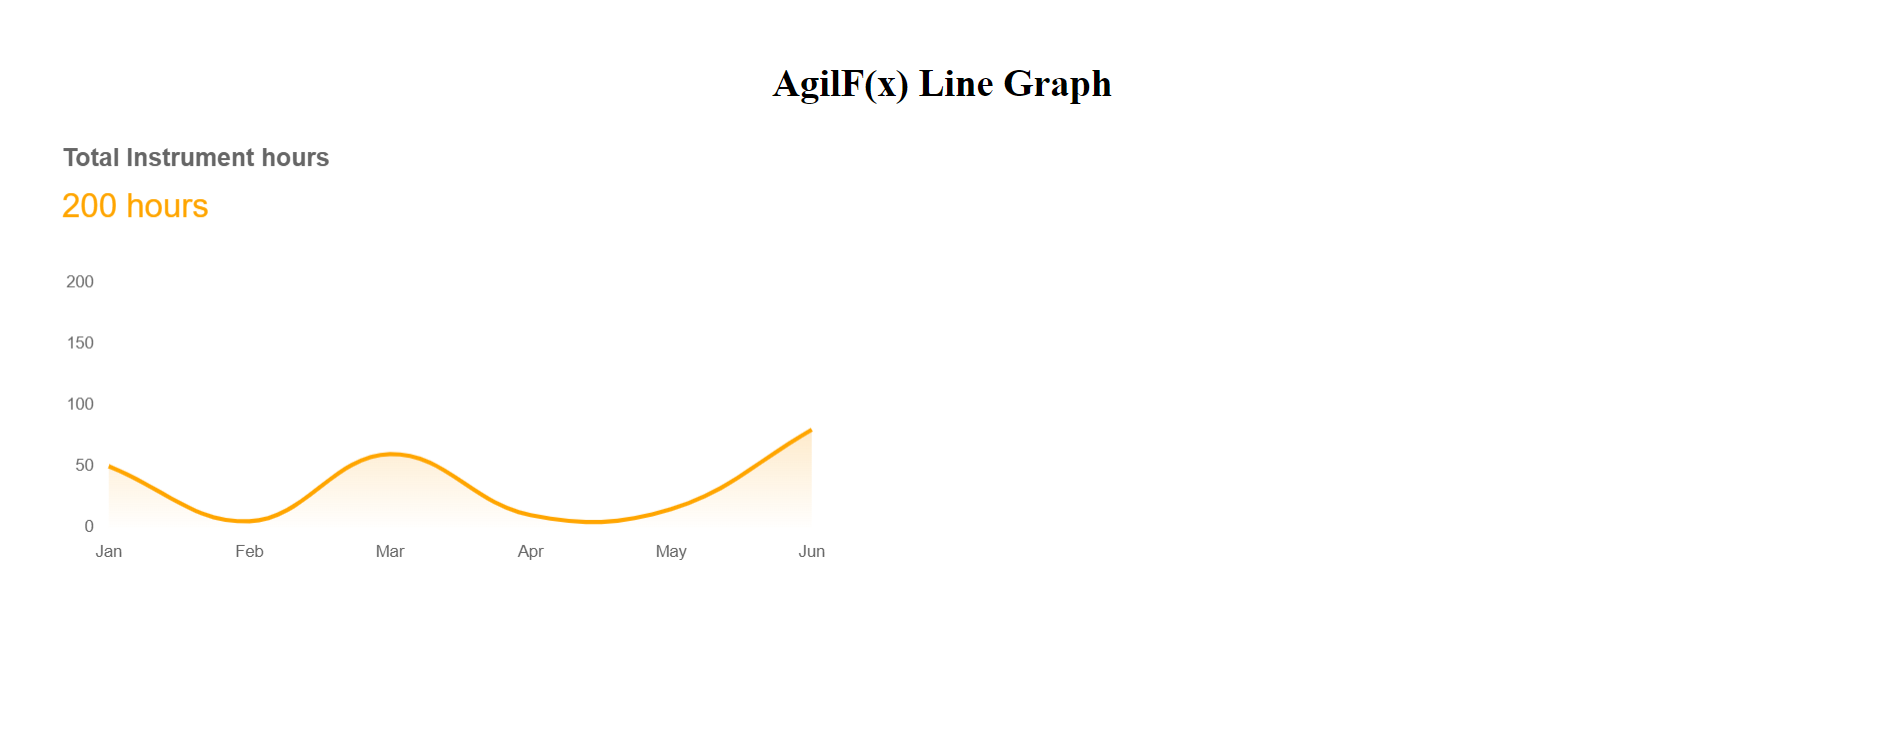
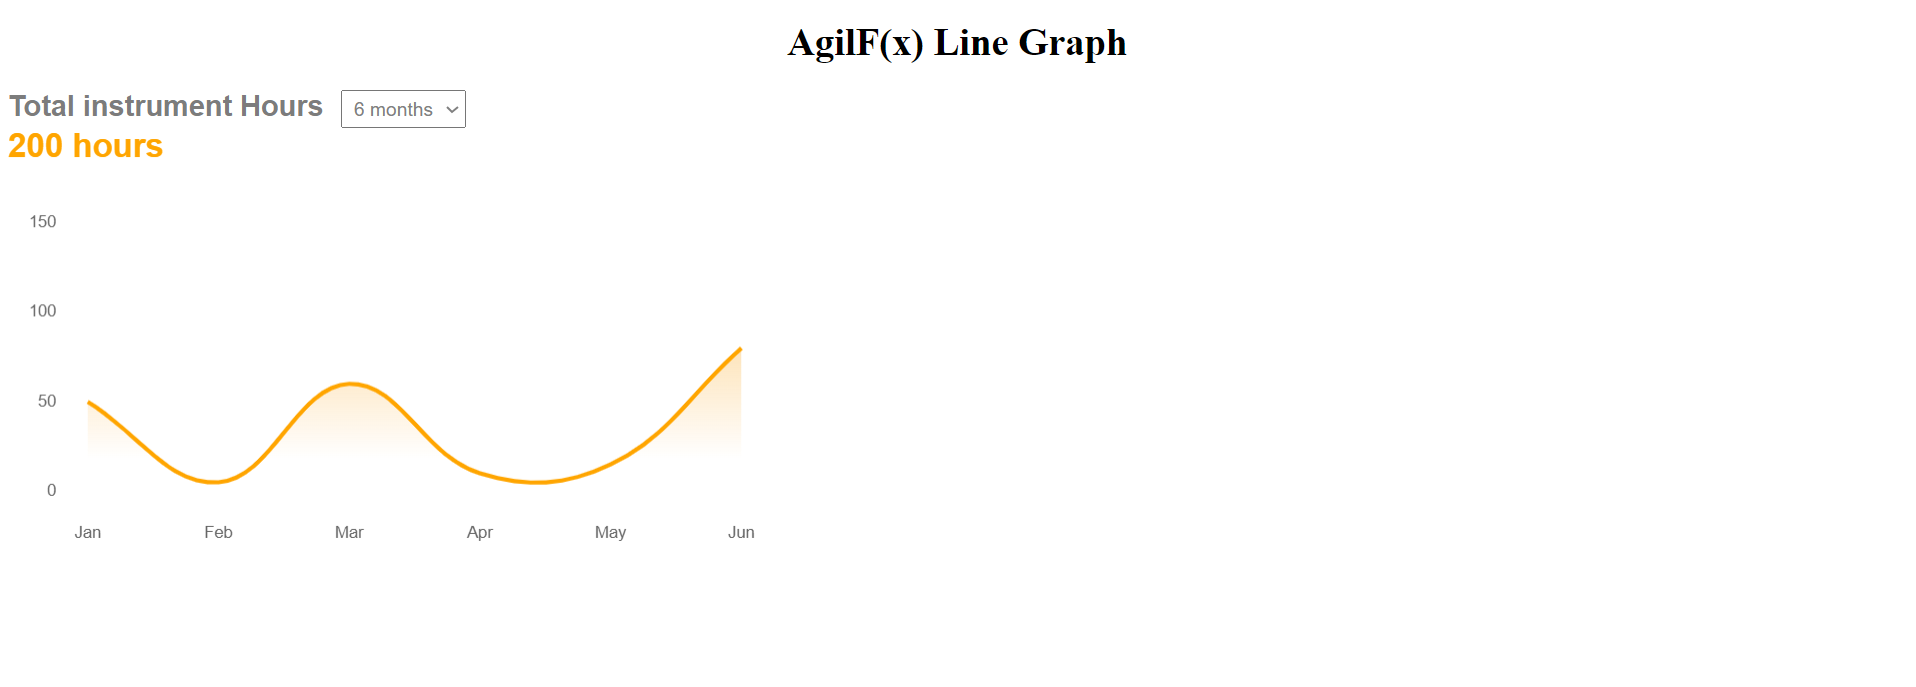
styling ticks

diff --git a/src/components/LineGraphs.jsx b/src/components/LineGraphs.jsx
@@ -30,9 +30,9 @@ const LineGraphs = () => {
       },
       title: {
         display: true,
+        color: "rgb(255, 165, 0)",
         align: "start",
         text: "200 hours",
-        color: "rgb(255, 165, 0)",
         font: {
           size: 24,
         },
@@ -49,8 +49,8 @@ const LineGraphs = () => {
         border: {
           display: false,
         },
-        padding: {
-          top: 60,
+        ticks: {
+          padding: 15,
         },
       },
       y: {
@@ -62,6 +62,7 @@ const LineGraphs = () => {
         },
         ticks: {
           stepSize: 50,
+          padding: 15,
         },
         suggestedMax: 150,
       },
@@ -70,7 +71,6 @@ const LineGraphs = () => {
   };
 
   const handleChange = (e) => {
-    console.log(e.target.value);
     setGraphFilterOn(e.target.value);
   };
 
@@ -83,7 +83,7 @@ const LineGraphs = () => {
             {
               backgroundColor: (context) => {
                 const ctx = context.chart.ctx;
-                const gradient = ctx.createLinearGradient(0, 0, 0, 290);
+                const gradient = ctx.createLinearGradient(0, 0, 0, 240);
                 gradient.addColorStop(0, "rgba(250,174,50,1)");
                 gradient.addColorStop(1, "rgba(250,174,50,0)");
                 return gradient;
@@ -104,7 +104,7 @@ const LineGraphs = () => {
             {
               backgroundColor: (context) => {
                 const ctx = context.chart.ctx;
-                const gradient = ctx.createLinearGradient(0, 0, 0, 290);
+                const gradient = ctx.createLinearGradient(0, 0, 0, 240);
                 gradient.addColorStop(0, "rgba(250,174,50,1)");
                 gradient.addColorStop(1, "rgba(250,174,50,0)");
                 return gradient;
@@ -125,7 +125,7 @@ const LineGraphs = () => {
             {
               backgroundColor: (context) => {
                 const ctx = context.chart.ctx;
-                const gradient = ctx.createLinearGradient(0, 0, 0, 290);
+                const gradient = ctx.createLinearGradient(0, 0, 0, 240);
                 gradient.addColorStop(0, "rgba(250,174,50,1)");
                 gradient.addColorStop(1, "rgba(250,174,50,0)");
                 return gradient;
